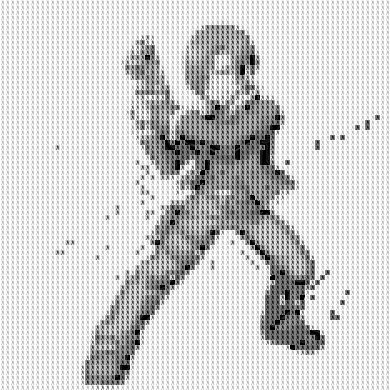
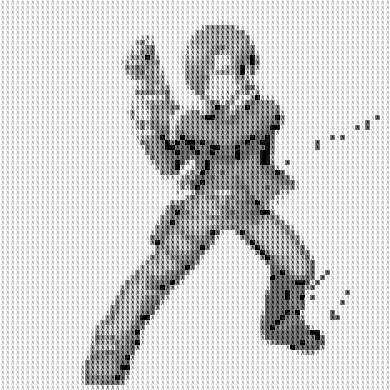
mejorando grises recursivas

diff --git a/Tareas/Tarea 6/src/filtros6.py b/Tareas/Tarea 6/src/filtros6.py
@@ -47,17 +47,17 @@ class filtros():
 
         for i in range(0, self.filas, x):
             for j in range(0, self.columnas, y):
+                grays = []
                 for h in range(i, x + i):
                     for k in range(j,  y + j):
-                        red = g_img[h,k][2]
-                        green = g_img[h,k][1]
-                        blue = g_img[h,k][0]
-                        grays += blue
-                        reg += 1
+                        #red = g_img[h,k][2]
+                        #green = g_img[h,k][1]
+                        #blue = g_img[h,k][0]
+                        grays.append(img[h,k][0])
+                        #reg += 1
 
-                pr = grays // reg
-                grays = 0
-                reg = 0
+                pr = sum(grays) // len(grays)
+                grays.clear()
 
 
                 if pr >= 0 and pr <= 8:
